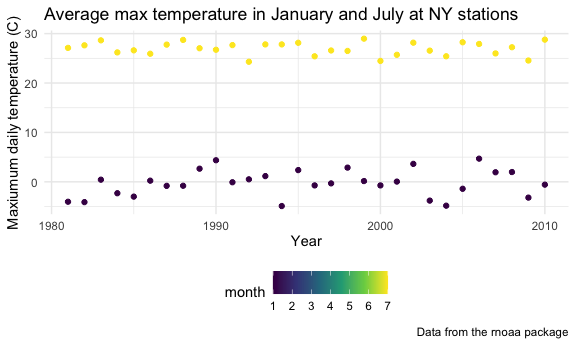
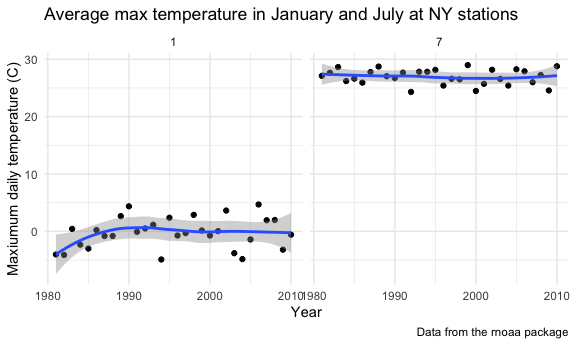
corections to create knitable version of problem 3

diff --git a/p8105_hw3_meb2308.md b/p8105_hw3_meb2308.md
@@ -253,13 +253,22 @@ Prior to cleaning, the dataset had 2595176 rows and 7 columns. Since
 each station collects only a subset of the variables described, the
 dataset has a lot of missing data.
 
-I will now clean and tidy the dataset and switch the units to reasonable
-ones.
+I will now clean and tidy the dataset. I converted snowfall, snow depth,
+and precipitation to inches.
 
 ``` r
 ny_noaa = ny_noaa %>% 
   mutate(date = ymd(date)) %>% 
-  mutate_at(vars(date), funs(year, month, day))
+  mutate_at(vars(date), funs(year, month, day)) %>% 
+  mutate(
+    snow_in = (snow * 0.0393701),
+    snwd_in = (snwd * 0.0393701),
+    prcp_in = (snwd * 0.393701),
+    tmax = as.numeric(tmax),
+    tmin = as.numeric(tmin),
+    tmax = (tmax / 10),
+    tmin = (tmin / 10)
+  )
 ```
 
     ## Warning: `funs()` is deprecated as of dplyr 0.8.0.
@@ -275,3 +284,89 @@ ny_noaa = ny_noaa %>%
     ##   list(~ mean(., trim = .2), ~ median(., na.rm = TRUE))
     ## This warning is displayed once every 8 hours.
     ## Call `lifecycle::last_warnings()` to see where this warning was generated.
+
+``` r
+ny_noaa %>% 
+  summarize(median = median(snow_in, na.rm = TRUE))
+```
+
+    ## # A tibble: 1 x 1
+    ##   median
+    ##    <dbl>
+    ## 1      0
+
+The most commonly observed value for snowfall is 0, because it doesn’t
+snow on many days in New York.
+
+Here is a two-panel plot showing the average max temperature in January
+and in July in each station across years.
+
+``` r
+ny_noaa %>% 
+  select(month, year, tmax) %>% 
+  group_by(month, year) %>% 
+  filter(month %in% c(1, 7)) %>% 
+  drop_na() %>%
+  summarize(mean_tmax = mean(tmax)) %>% 
+  ggplot(aes(x = year, y = mean_tmax)) +
+  geom_point() +
+  geom_smooth() +
+  labs(
+    title = "Average max temperature in January and July at NY stations",
+    x = "Year",
+    y = "Maxiumum daily temperature (C)",
+    caption = "Data from the rnoaa package"
+  ) +
+  facet_grid(~month, scales = "free_y")
+```
+
+    ## `summarise()` regrouping output by 'month' (override with `.groups` argument)
+
+    ## `geom_smooth()` using method = 'loess' and formula 'y ~ x'
+
+<img src="p8105_hw3_meb2308_files/figure-gfm/unnamed-chunk-13-1.png" width="90%" />
+
+The plot shows that the max temperature is higher in July than January
+across all years and there is variation from year to year. Adding the
+geom\_smooth function shows that max temperature has increased since
+1980 in January. There were a few observable outliers. For instance, the
+low of -5 degrees C in Januart of 1994.
+
+I will make a two-panel plot showing the maximum vs minimum temperature
+for the full dataset.
+
+``` r
+ny_noaa %>% 
+  select(year, tmax, tmin) %>% 
+  drop_na() %>% 
+  group_by(year, tmax, tmin) %>% 
+  ggplot(aes(x = year, y = tmax)) +
+  labs(
+    title = "Max and min temperature by year",
+    x = "Year",
+    y = "Maxiumum daily temperature (C)",
+    caption = "Data from the rnoaa package"
+  ) 
+```
+
+<img src="p8105_hw3_meb2308_files/figure-gfm/unnamed-chunk-14-1.png" width="90%" />
+
+Finally, I’ll plot the distribution of snowfall above 0 mm and below
+100mm separately by year.
+
+``` r
+ny_noaa %>% 
+  select(year, snow) %>% 
+  drop_na() %>% 
+  filter(snow < 100) %>% 
+  group_by(year, snow) %>% 
+  ggplot(aes(x = year, y = snow)) +
+  labs(
+    title = "Snowfall above 0 and below 100mm by year",
+    x = "Year",
+    y = "Snowfall (mm)",
+    caption = "Data from the rnoaa package"
+  )
+```
+
+<img src="p8105_hw3_meb2308_files/figure-gfm/unnamed-chunk-15-1.png" width="90%" />
